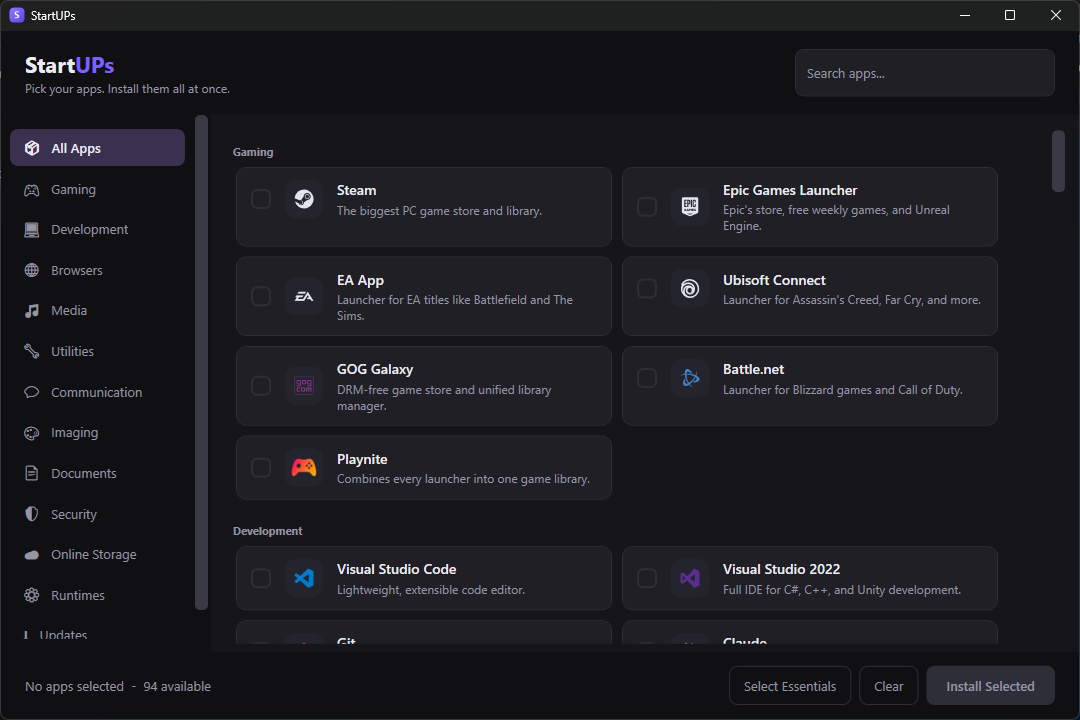
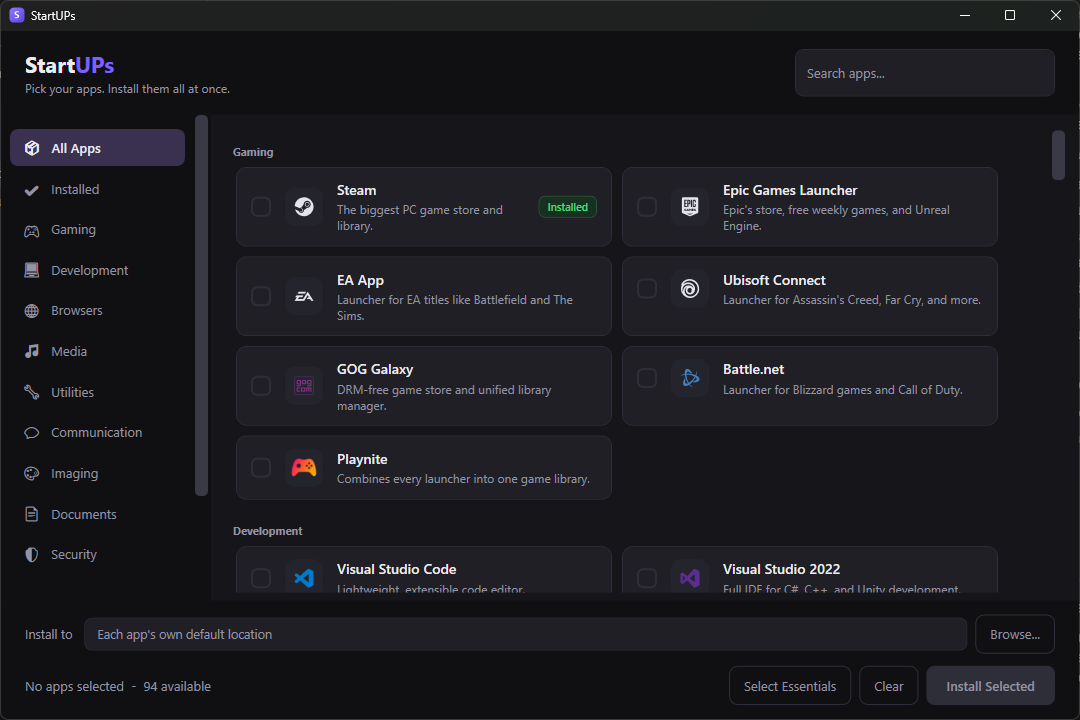
Bring the docs up to date with detection, removal and location
The privacy policy had fallen behind the code and was asserting things
that stopped being true two releases ago. A published policy claiming
more than the software does is worse than one that admits the detail, so:

- It said the only network activity was an update check you asked for.
  Checking what is installed now runs winget at startup, and winget may
  contact its own source while answering. That is a local command rather
  than a StartUPs request, but it is not something the user triggers, so
  it is now stated up front rather than omitted.
- It said no files are written at all. Detection writes a temporary
  package list, and self-update stages a new executable and a script.
  Both are described, along with what they do not contain.
- Removing apps was not mentioned anywhere.

The README gains the parts that were missing rather than wrong: the flow
diagram covered installing only, so detection, removal and the follow-up
re-check are now in it; the project layout never listed UpdateService.cs
at all; and the screenshot predated both the Installed view and the
install location row, so it has been recaptured from the release build.

diff --git a/PRIVACY.md b/PRIVACY.md
@@ -1,8 +1,8 @@
 # Privacy Policy
 
-**Last updated: 1 August 2026**
+**Last updated: 2 August 2026**
 
-Short version: **StartUPs collects nothing about you.** It has no accounts, no telemetry, no analytics, and no crash reporting. It makes exactly one kind of network request of its own — an update check, and only when you ask for it.
+Short version: **StartUPs collects nothing about you.** It has no accounts, no telemetry, no analytics, and no crash reporting. The only network request it makes itself is an update check, and only when you ask for it. It does run winget at startup to see which apps are already on your PC — that is a local command, but winget may contact its own source while answering.
 
 ## What StartUPs collects
 
@@ -13,23 +13,37 @@ StartUPs does not:
 - Collect, transmit, or store personal information
 - Include analytics, telemetry, or crash reporting
 - Require an account, sign-in, or licence key
-- Track which apps you select or install
-- Write settings, logs, or any other files to your PC
+- Track which apps you select, install, or remove
+- Write settings, preferences, or logs to your PC
 - Read or modify your registry
 - Contact any server operated by the developer — there is no such server
 - Check for updates on its own, in the background, or at startup
 
 This is verifiable in the source: there is no analytics library, no logging, and no code that writes settings.
 
+StartUPs does write two kinds of short-lived temporary file, neither of which describes you:
+
+- **A list of installed packages.** Checking what is already on your PC runs `winget export`, which writes its answer to a temporary JSON file. StartUPs reads it and deletes it immediately. It never leaves your PC.
+- **The update itself.** Choosing to install an update writes the new executable and a small script next to `StartUPs.exe`, so the replacement can happen after StartUPs exits. Both are removed once it completes.
+
 ## Checking for updates
 
 The **Updates** tab asks GitHub whether a newer release exists. This is the only network request StartUPs makes itself, and:
 
-- It happens **only when you press "Check for updates"**. There is no automatic or background check, and nothing is contacted at startup.
+- It happens **only when you press "Check for updates"**. StartUPs never contacts GitHub on its own, in the background, or at startup.
 - It is an ordinary anonymous request to `api.github.com`, with no account and no identifier attached. GitHub sees a request from your IP address, as it would from any web browser, governed by the [GitHub Privacy Statement](https://docs.github.com/site-policy/privacy-policies/github-privacy-statement).
 - Nothing about you, your PC, or the apps you selected is transmitted. The request asks a single question — what is the latest release — and sends nothing else.
 
 If you press **Download and install**, the new executable is downloaded from GitHub, its checksum is verified against the one GitHub published, and StartUPs restarts.
+
+## Checking what is already installed
+
+So it can skip apps you already have, and so the **Installed** view can list them, StartUPs asks winget what is on your PC. This happens at startup, again after any install or removal, and whenever you press **Refresh**.
+
+- It is a **local command**, not a request to the developer. The answer is written to a temporary file, read, and deleted.
+- winget may contact its own source while answering, which is Microsoft rather than StartUPs — see below.
+- The result never leaves your PC. StartUPs has nowhere to send it and no code that would.
+- Only the apps in StartUPs' own catalog are matched against the answer. Everything else winget reports is ignored.
 
 ## What happens when you install apps
 
@@ -41,6 +55,8 @@ That means network activity does occur — just not by StartUPs itself:
 2. **Software vendors** — winget then downloads each installer from the vendor's own official URL. Valve, Discord, Google, Mozilla and the rest will see a download request from your IP address, exactly as if you had visited their website and clicked download.
 
 These parties may keep their own logs. StartUPs has no visibility into, or control over, what they record.
+
+Removing an app works the same way in reverse: StartUPs runs `winget uninstall` for each app you confirmed, and winget hands the work to that app's own uninstaller. Nothing about what you removed is recorded or sent anywhere.
 
 ## Apps you install
 

diff --git a/README.md b/README.md
@@ -25,7 +25,7 @@ Setting up a fresh Windows install means visiting a dozen websites, dodging the 
 - **Select Essentials** — one click ticks the 19 apps almost everyone wants
 - **Instant search** across app names, descriptions, and package IDs
 - **Cancel any time** — stops the current download and leaves the rest untouched
-- **Built-in updater** — checks GitHub on request, verifies the download's checksum, and restarts into the new version
+- **Built-in updater** — checks GitHub on request, verifies the download's checksum, stages it behind the same permissions as the app, and restarts into the new version
 - **Single portable .exe** — no installer, no .NET runtime required
 
 ![Splash screen](docs/splash.png)
@@ -41,18 +41,24 @@ On first run Windows SmartScreen will warn about an unrecognised app, because th
 StartUPs never hosts or downloads installers itself. It drives [**winget**](https://learn.microsoft.com/windows/package-manager/), Microsoft's package manager built into Windows, which fetches each app from the vendor's own official URL and verifies its hash before running it.
 
 ```
-Click Install
+Launch
    |
    +-- UAC elevation prompt (once)
+   +-- winget export -> what is already on this PC, badged in the background
    |
-   +-- Sequential queue, one app at a time:
-   |     winget list    -> already installed? skip it
-   |     winget install -> silent, progress parsed live
-   |
-   +-- Summary: installed / already present / cancelled / failed
+Click Install                          Click Uninstall (Installed view)
+   |                                      |
+   +-- Sequential queue:                  +-- Confirm the queue by name
+   |     winget list    -> skip if here   |
+   |     winget install -> silent,        +-- Sequential queue:
+   |                       live progress  |     winget uninstall -> silent
+   |                                      |
+   +-- Summary -----------------------------+-- Summary
+                     |
+                     +-- re-check what is installed
 ```
 
-Installs run one at a time because winget takes a machine-wide lock — parallel installs would simply fail.
+Runs happen one app at a time because winget takes a machine-wide lock — parallel installs would simply fail.
 
 ## Choosing where apps install
 
@@ -158,14 +164,15 @@ StartUPs/
     catalog.json             the app catalog (embedded at build time)
     icons.json               vector brand glyphs, keyed by winget ID
     Assets/AppIcons/         PNG icons for apps with no vector glyph
-    Models/                  AppEntry, Catalog, InstallState
+    Models/                  AppEntry, Catalog, InstallState, UpdateInfo
     Services/
       CatalogService.cs      loads the embedded catalog
       IconService.cs         resolves each app's icon
-      WingetService.cs       runs winget, parses live progress
+      WingetService.cs       runs winget: install, uninstall, detect
+      UpdateService.cs       checks GitHub, verifies and stages a new build
     Theme.xaml               dark palette and control styles
     SplashWindow.xaml(.cs)   animated startup splash
-    MainWindow.xaml(.cs)     layout, filtering, install queue
+    MainWindow.xaml(.cs)     layout, filtering, install and uninstall queues
     app.manifest             requests administrator at launch
     icon.ico                 app icon, 7 sizes
 ```
